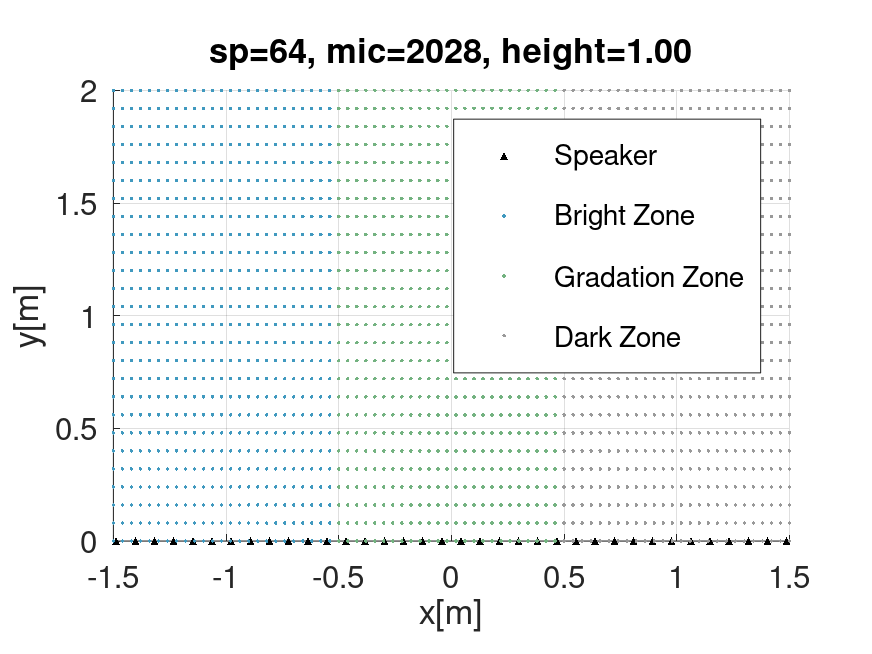
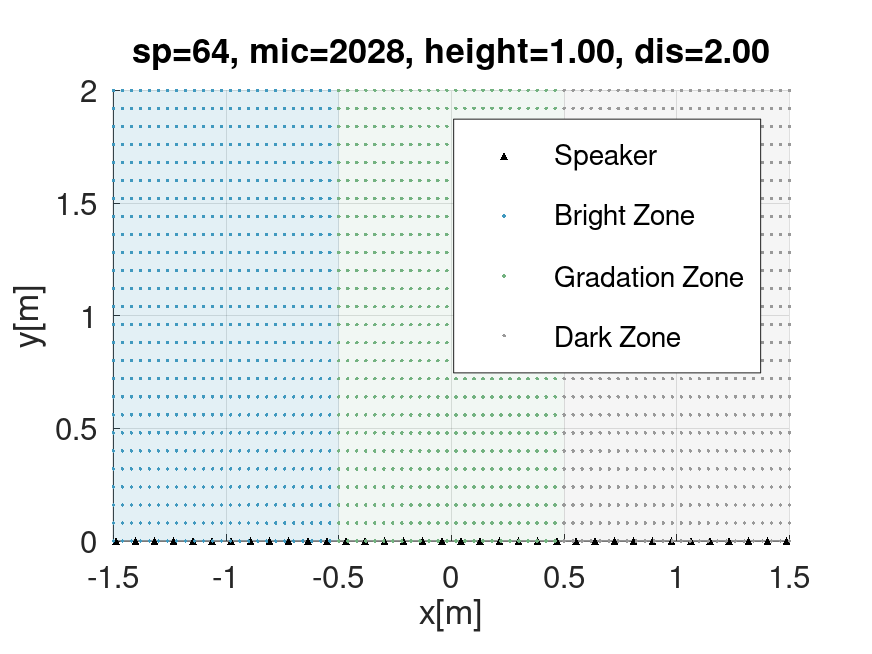
Gzwo

Changed region(s): [[0.1239, 0.0612, 0.8979, 0.8257]]

diff --git a/pos_sp_mic.m b/pos_sp_mic.m
@@ -16,17 +16,14 @@ function [pos_sp, pos_mic, num_mic, num_bz, num_gz] = pos_sp_mic(num_sp, y_cente
 
     % -----------------------
     % 各ゾーンのシフト後中心位置
-    % BZを左、GZを中央、DZを右に配置
     % -----------------------
-    bz_center = [-1.0, y_center];
-    gz_center = [ 0.0, y_center];
-    dz_center = [ 1.0, y_center];
+    bz_center = [-dist_zone/2, y_center];
+    dz_center = [ dist_zone/2,  y_center];
 
     % -----------------------
-    % 点格納
+    % 点格納（配置ロジックはそのまま維持）
     % -----------------------
     pos_bz = zeros(n_x*n_y, 2);
-    pos_gz = zeros(n_x*n_y, 2);
     pos_dz = zeros(n_x*n_y, 2);
 
     n = 0;
@@ -35,18 +32,16 @@ function [pos_sp, pos_mic, num_mic, num_bz, num_gz] = pos_sp_mic(num_sp, y_cente
             n = n + 1;
             % BZ（左）
             pos_bz(n,:) = [bz_x(x_idx) + bz_center(1), bz_y(y_idx) + bz_center(2)];
-            % GZ（中央）
-            pos_gz(n,:) = [bz_x(x_idx) + gz_center(1), bz_y(y_idx) + gz_center(2)];
             % DZ（右）
             pos_dz(n,:) = [bz_x(x_idx) + dz_center(1), bz_y(y_idx) + dz_center(2)];
         end
     end
     
     % BZ, GZ, DZを結合し、総マイク数を算出
-    pos_mic = [pos_bz; pos_gz; pos_dz];
+    pos_mic = [pos_bz; pos_dz];
     num_mic = size(pos_mic, 1);
     num_bz = size(pos_bz, 1);
-    num_gz = size(pos_gz, 1);
+    num_gz = 0; % GZは未使用のため0に設定
 
     %% ---------------------------------------------------------------------
     %% スピーカーアレイ（音源）の座標計算
@@ -71,28 +66,45 @@ function [pos_sp, pos_mic, num_mic, num_bz, num_gz] = pos_sp_mic(num_sp, y_cente
     %% 配置図の描画と画像保存
     %% ---------------------------------------------------------------------
     if pltPos
-        figure 
+        figure;
+        hold on; % 【修正】最背面にpatchを描画するため、最初にhold onを設定
         
-        % スピーカーと各ゾーンのマイク配置を色分けして散布図で描画
-        scatter(pos_sp(:,1), pos_sp(:,2), 15, 'k', '^', 'filled'); hold on;        
-        scatter(pos_bz(:,1), pos_bz(:,2), 3, [0.25, 0.60, 0.75], 'filled'); % BZはシアン
-        scatter(pos_gz(:,1), pos_gz(:,2), 3, [0.45, 0.70, 0.50], 'filled'); % GZはグリーン
-        scatter(pos_dz(:,1), pos_dz(:,2), 3, [0.60, 0.60, 0.60], 'filled'); % DZはブラック
+        % 各ゾーンのx方向の境界を取得（patch用）
+        bz_x_min = min(pos_bz(:,1)); bz_x_max = max(pos_bz(:,1));
+        dz_x_min = min(pos_dz(:,1)); dz_x_max = max(pos_dz(:,1));
+        
+        % Y軸の塗りつぶし範囲（マイクの上下に適度な余白を持たせる）
+        y_min_plot = min(pos_mic(:,2)) - 0.2;
+        y_max_plot = max(pos_mic(:,2)) + 0.2;
+        
+        % 【修正】1つ目のコードを参考に、各領域をpatchで薄く塗りつぶす
+        % （凡例の重複を防ぐため 'HandleVisibility', 'off' を設定）
+        patch([bz_x_min bz_x_max bz_x_max bz_x_min], [y_min_plot y_min_plot y_max_plot y_max_plot], ...
+              [0.25, 0.60, 0.75], 'FaceAlpha', 0.15, 'EdgeColor', 'none', 'HandleVisibility', 'off');
+        patch([dz_x_min dz_x_max dz_x_max dz_x_min], [y_min_plot y_min_plot y_max_plot y_max_plot], ...
+              [0.60, 0.60, 0.60], 'FaceAlpha', 0.10, 'EdgeColor', 'none', 'HandleVisibility', 'off');
 
+        % スピーカーと各ゾーンのマイク配置を色分けして散布図で描画（ハンドルを取得）
+        h_sp = scatter(pos_sp(:,1), pos_sp(:,2), 15, 'k', '^', 'filled');        
+        h_bz = scatter(pos_bz(:,1), pos_bz(:,2), 3, [0.25, 0.60, 0.75], 'filled'); % BZ: シアン系
+        h_dz = scatter(pos_dz(:,1), pos_dz(:,2), 3, [0.60, 0.60, 0.60], 'filled'); % DZ: グレー系
 
-        daspect([1 1 1])
-        xlim([room_size(1), room_size(2)])
-        ylim([room_size(3), room_size(4)])
+        daspect([1 1 1]);
+        xlim([room_size(1), room_size(2)]);
+        ylim([room_size(3), room_size(4)]);
         grid on;
         
         xlabel("x[m]"); ylabel("y[m]");
-        legend({"Speaker", "Bright Zone", "Gradation Zone", "Dark Zone"});
         
+        % 取得したハンドルを用いて凡例をすっきりと整理
+        legend([h_sp, h_bz, h_dz], {"Speaker", "Bright Zone", "Dark Zone"});
+
+        % ファイル名とタイトルに dist_zone (dis) を正しく反映
         filename = sprintf("plc_sp_%d_mic_%d_zone-h_%.2fm_zone-dis_%.2fm.png", ...
-                           num_sp, num_mic, y_center, dist_zone);
-        title(sprintf("sp=%d, mic=%d, height=%.2f", num_sp, num_mic, y_center));
+                            num_sp, num_mic, y_center, dist_zone);
+        title(sprintf("sp=%d, mic=%d, height=%.2f, dis=%.2f", num_sp, num_mic, y_center, dist_zone));
         
-        set(gca, 'fontsize', 15)
+        set(gca, 'fontsize', 15);
         saveas(gcf, filename, 'png');
     end
 end

diff --git a/main.m b/main.m
@@ -19,17 +19,17 @@ mthd_ctrl = "wpm"; % 音場制御の手法 = PM法
 %% 空間および制御ゾーンの設定
 %% -------------------------------------------------------------------------
 % 部屋の大きさ [xの最小値, xの最大値, yの最小値, yの最大値]
-room_size = [-1.5, 1.5, 0, 2.0];
+room_size = [-1.0, 1.0, 0, 2.0];
 itv_room = 0.02;          % 空間全体の計算用格子点の間隔 [m]
 
 %% スピーカーとマイクの配置
 num_sp = 64;      % 使用するスピーカー数
 % 制御ゾーン（Bz, Gz, Dz）の設定
 zone_h = 1.0;             % 制御ゾーンの中心高さ(y座標) [m]
-dist_zone = 2.0;          % BzとDzの中心間距離 [m] (現在は各ゾーンの絶対座標で配置)
 bz_size = [1.0, 2.0];     % Bzの大きさ [幅(x), 奥行き(y)] [m]
 gz_size = [1.0, 2.0];     % Gzの大きさ [幅(x), 奥行き(y)] [m] (新規追加)
 dz_size = [1.0, 2.0];     % Dzの大きさ [幅(x), 奥行き(y)] [m]
+dist_zone = bz_size(1);
 
 % 制御点（マイク）の配置間隔 [x方向, y方向]
 itv_mic = [0.04, 0.08];
@@ -56,9 +56,9 @@ drv = filter_pm(pos_mic, G_ctrl, freq, ang_wave, amp_src, Nsrc, c, num_bz, num_g
 p_ctrl = G_ctrl * drv;
 
 % マイク群を「Bz」と「Dz」に半分ずつ分割
-p_bz = p_ctrl(1:num_bz);       % 前半：BZの音圧
-p_gz = p_ctrl(num_bz + 1:num_bz + num_gz); % 中間：GZの音圧
-p_dz = p_ctrl(num_bz + num_gz + 1:end);   % 後半：Dzの音圧
+p_bz = p_ctrl(1:num_bz);       
+p_gz = [];                                 % ★ 空にする（または削除）
+p_dz = p_ctrl(num_bz + 1:end);             % ★ num_bz + num_gz + 1:end から変更
 
 % ACの計算
 % BZの平均音響エネルギーと、DZの平均音響エネルギーの比をデシベル(dB)で算出

diff --git a/filter_pm.m b/filter_pm.m
@@ -37,37 +37,9 @@ function drv_ls = filter_pm(mic_geo, G, f, ang_wave, amp_src, Nsrc, c, num_bz, n
         end
 
         %--------------------------------------------------
-        % 2. Gradation Zone (GZ) の目標音圧と重み
-        %--------------------------------------------------
-        gz_idx_start = num_bz + 1;
-        gz_idx_end = num_bz + num_gz;
-        
-        % GZのx座標の範囲を取得し、中間点を算出
-        min_x_gz = min(mic_geo(gz_idx_start:gz_idx_end, 1));
-        max_x_gz = max(mic_geo(gz_idx_start:gz_idx_end, 1));
-        mid_x_gz = (min_x_gz + max_x_gz) / 2;
-
-        for i = gz_idx_start:gz_idx_end
-            x_m = mic_geo(i,1);
-            y_m = mic_geo(i,2);
-
-            if x_m <= mid_x_gz
-                % GZ前半: 重み 1.0 -> 0.01 / 振幅 1.0 -> 0.0
-                t = (x_m - min_x_gz) / (mid_x_gz - min_x_gz);
-                w_vec(i) = 1.0 - t * 0.99;
-                amp_g = amp_src * (1.0 - t);
-                p_des(i) = amp_g * exp(1i * (2*pi*f(kk)/c) * (x_m*cos(ang_wave) + y_m*sin(ang_wave)));
-            else
-                % GZ後半: 無音、重み 0.01 固定
-                w_vec(i) = 0.1;
-                p_des(i) = 0;
-            end
-        end
-
-        %--------------------------------------------------
         % 3. Dark Zone (DZ) の目標音圧と重み
         %--------------------------------------------------
-        dz_idx_start = num_bz + num_gz + 1;
+        dz_idx_start = num_bz + 1;
         for i = dz_idx_start:n_mic
             p_des(i) = 0;
             w_vec(i) = 1.0;

diff --git a/plot_spl_profile.m b/plot_spl_profile.m
@@ -16,7 +16,6 @@ figure;
 
 % 各ゾーンのx方向の境界を取得 (すでに計算済みの con_bz, con_gz, con_dz を利用)
 bz_x_min = min(con_bz(:,1)); bz_x_max = max(con_bz(:,1));
-gz_x_min = min(con_gz(:,1)); gz_x_max = max(con_gz(:,1)); % ★ここを追加しました
 dz_x_min = min(con_dz(:,1)); dz_x_max = max(con_dz(:,1));
 
 % Y軸の描画範囲を設定
@@ -28,11 +27,6 @@ patch([bz_x_min bz_x_max bz_x_max bz_x_min], ...
       [y_min_plot y_min_plot y_max_plot y_max_plot], ...
       'c', 'FaceAlpha', 0.15, 'EdgeColor', 'none', 'DisplayName', 'Bright Zone');
 hold on;
-
-% 2. GZ領域 (グリーン) 
-patch([gz_x_min gz_x_max gz_x_max gz_x_min], ...
-      [y_min_plot y_min_plot y_max_plot y_max_plot], ...
-      'g', 'FaceAlpha', 0.1, 'EdgeColor', 'none', 'DisplayName', 'Gradation Zone');
 
 % 3. DZ領域 (グレー)
 patch([dz_x_min dz_x_max dz_x_max dz_x_min], ...
